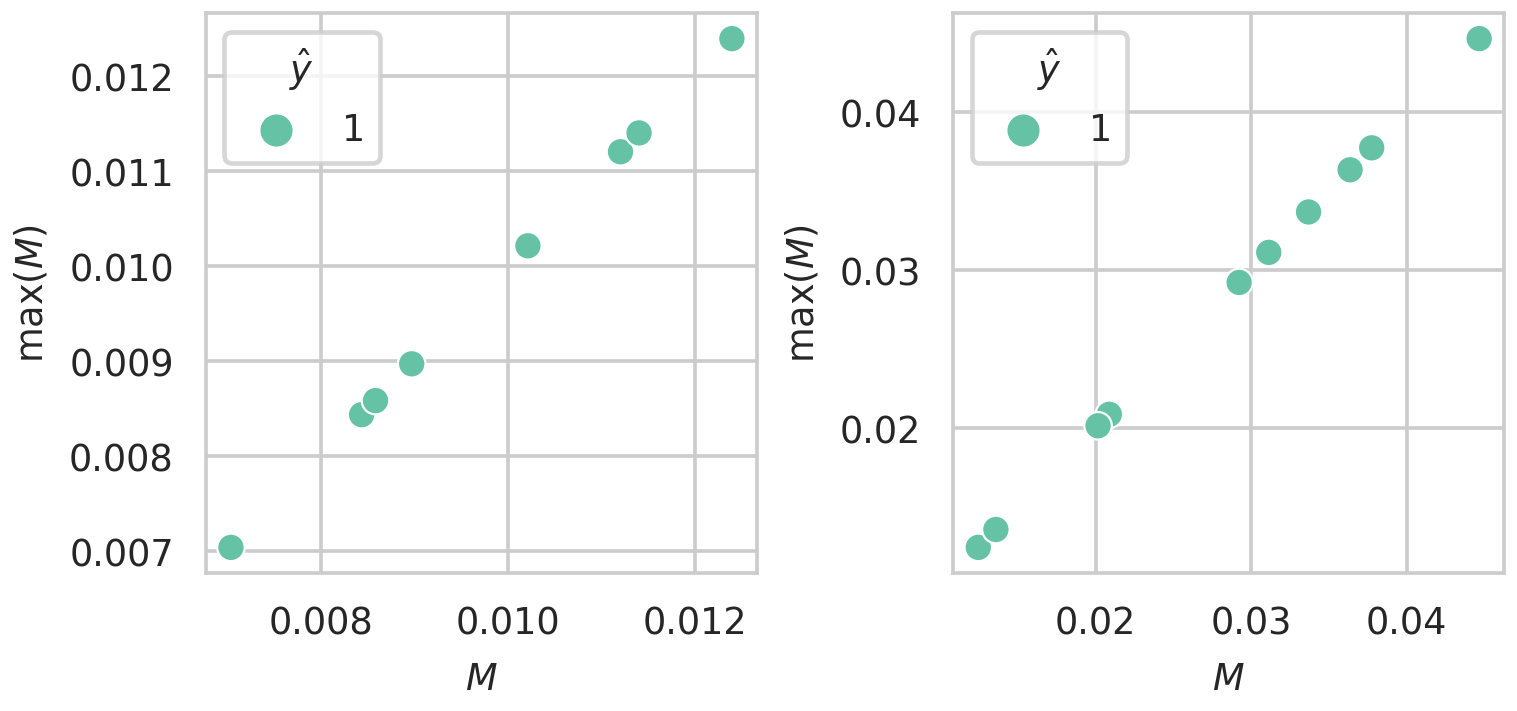
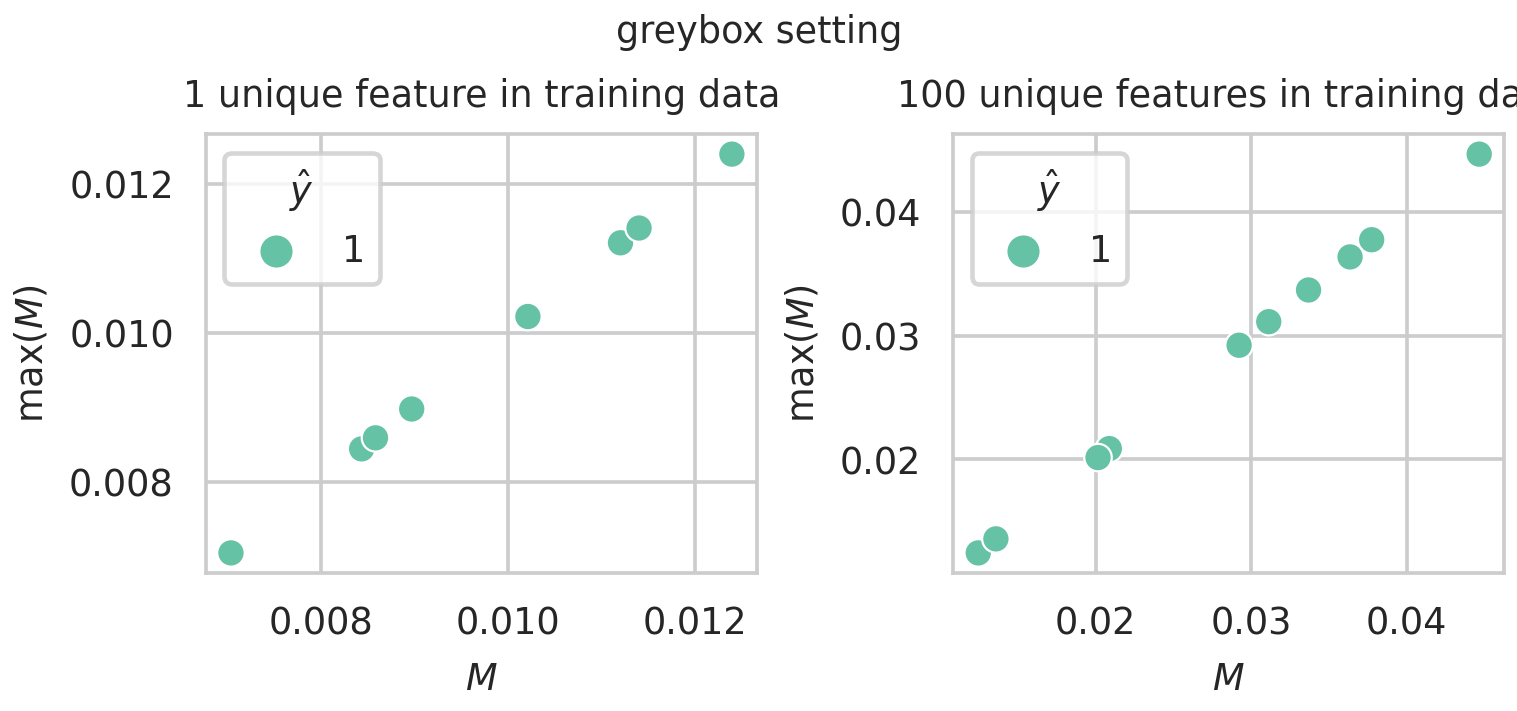
plots

diff --git a/eval_celeb_a.py b/eval_celeb_a.py
@@ -219,6 +219,7 @@ def plot():
     df = df.loc[(df['whitebox_m_pval'] < 0.05)]
 
     f, ax = plt.subplots(1, 2, constrained_layout=True, figsize=(6.9 * (2/3), 6.9 / 1.6 / 2))
+    plt.suptitle(f"{os.environ['SETTING']} setting")
 
     ax.flatten()
 
@@ -235,21 +236,24 @@ def plot():
 
     ax[0].set_xlabel(r'$M$')
     ax[0].set_ylabel(r'$\mathrm{max}(M)$')
+    ax[0].set_title('1 unique feature in training data')
     ax[1].set_xlabel(r'$M$')
     ax[1].set_ylabel(r'$\mathrm{max}(M)$')
+    ax[1].set_title('100 unique features in training data')
+
 
     plt.savefig(f'figures/{eval_dataset}_m_scores.png', dpi=330)
     plt.close()
 
 if __name__ == '__main__':
-
+    """
     # canary feature frequencies
     nc_l = [1, 100]
     # dataset cardinality
     n_l = [10000]
     # uf feature sizes
     resizes = [None]
-
+    
     df = []
 
     for nc in nc_l:
@@ -261,5 +265,5 @@ if __name__ == '__main__':
 
     df = pd.concat(df, ignore_index=True)
     df.to_csv(outputfile)
-
+    """
     plot()
